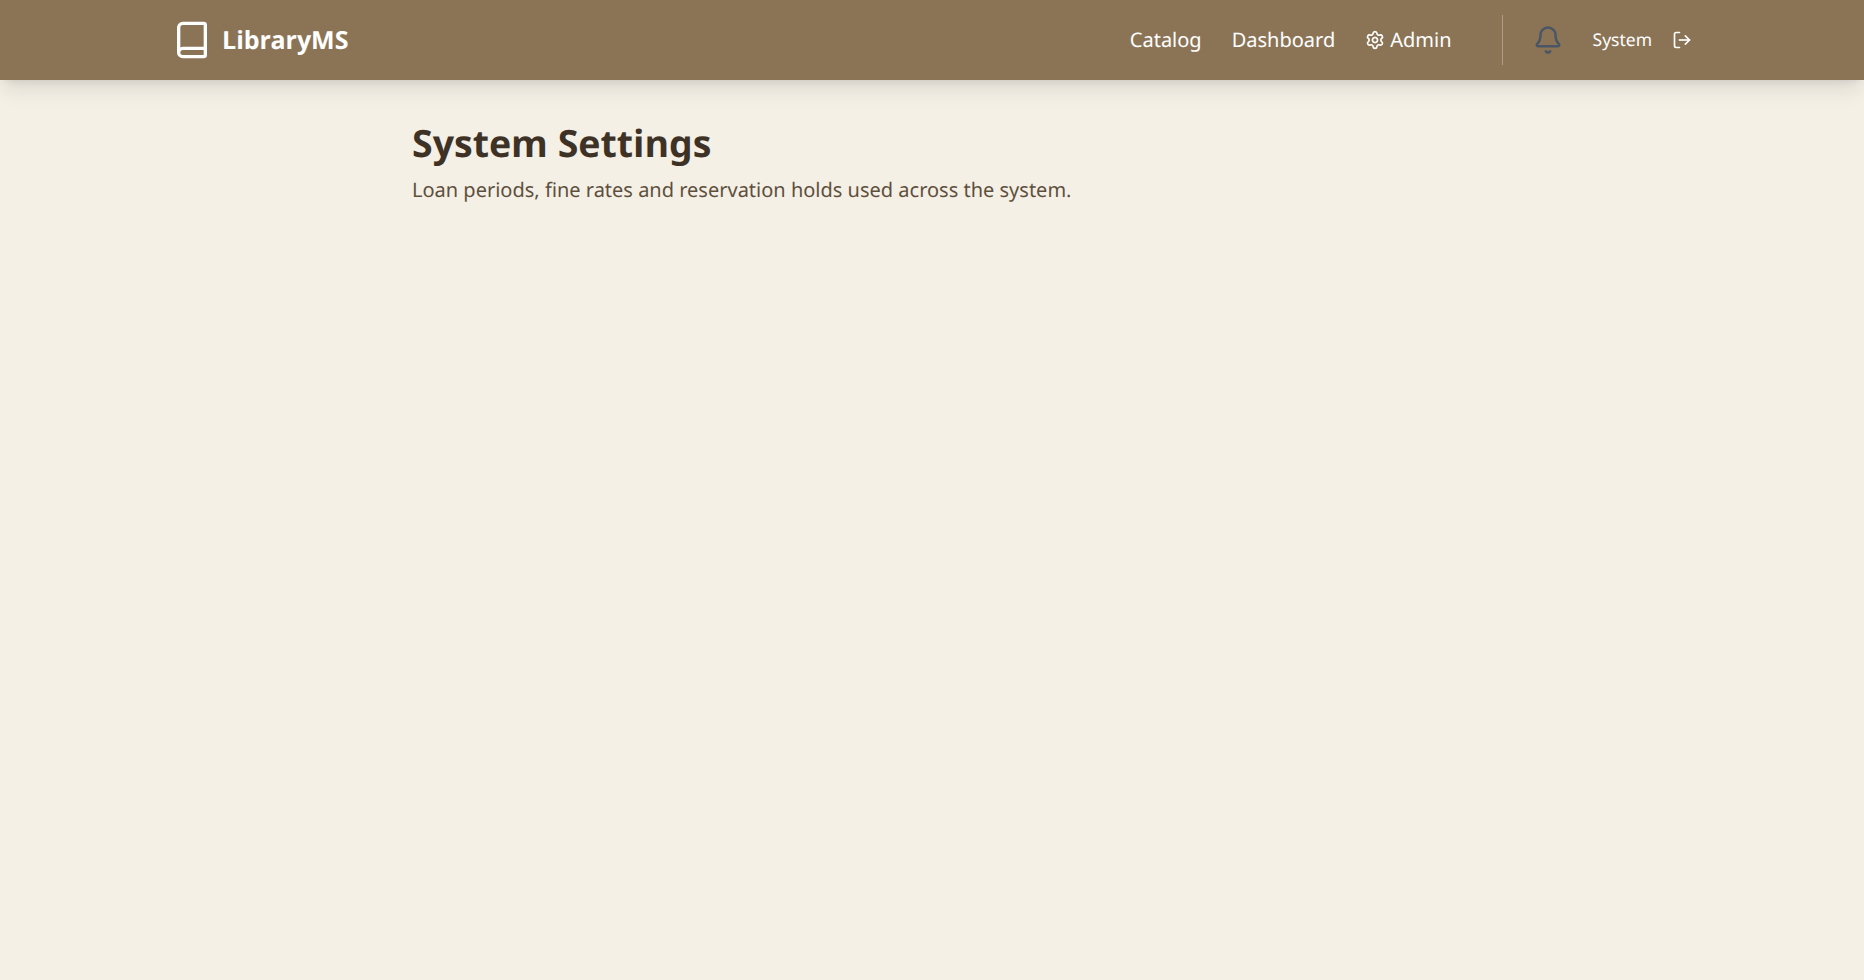
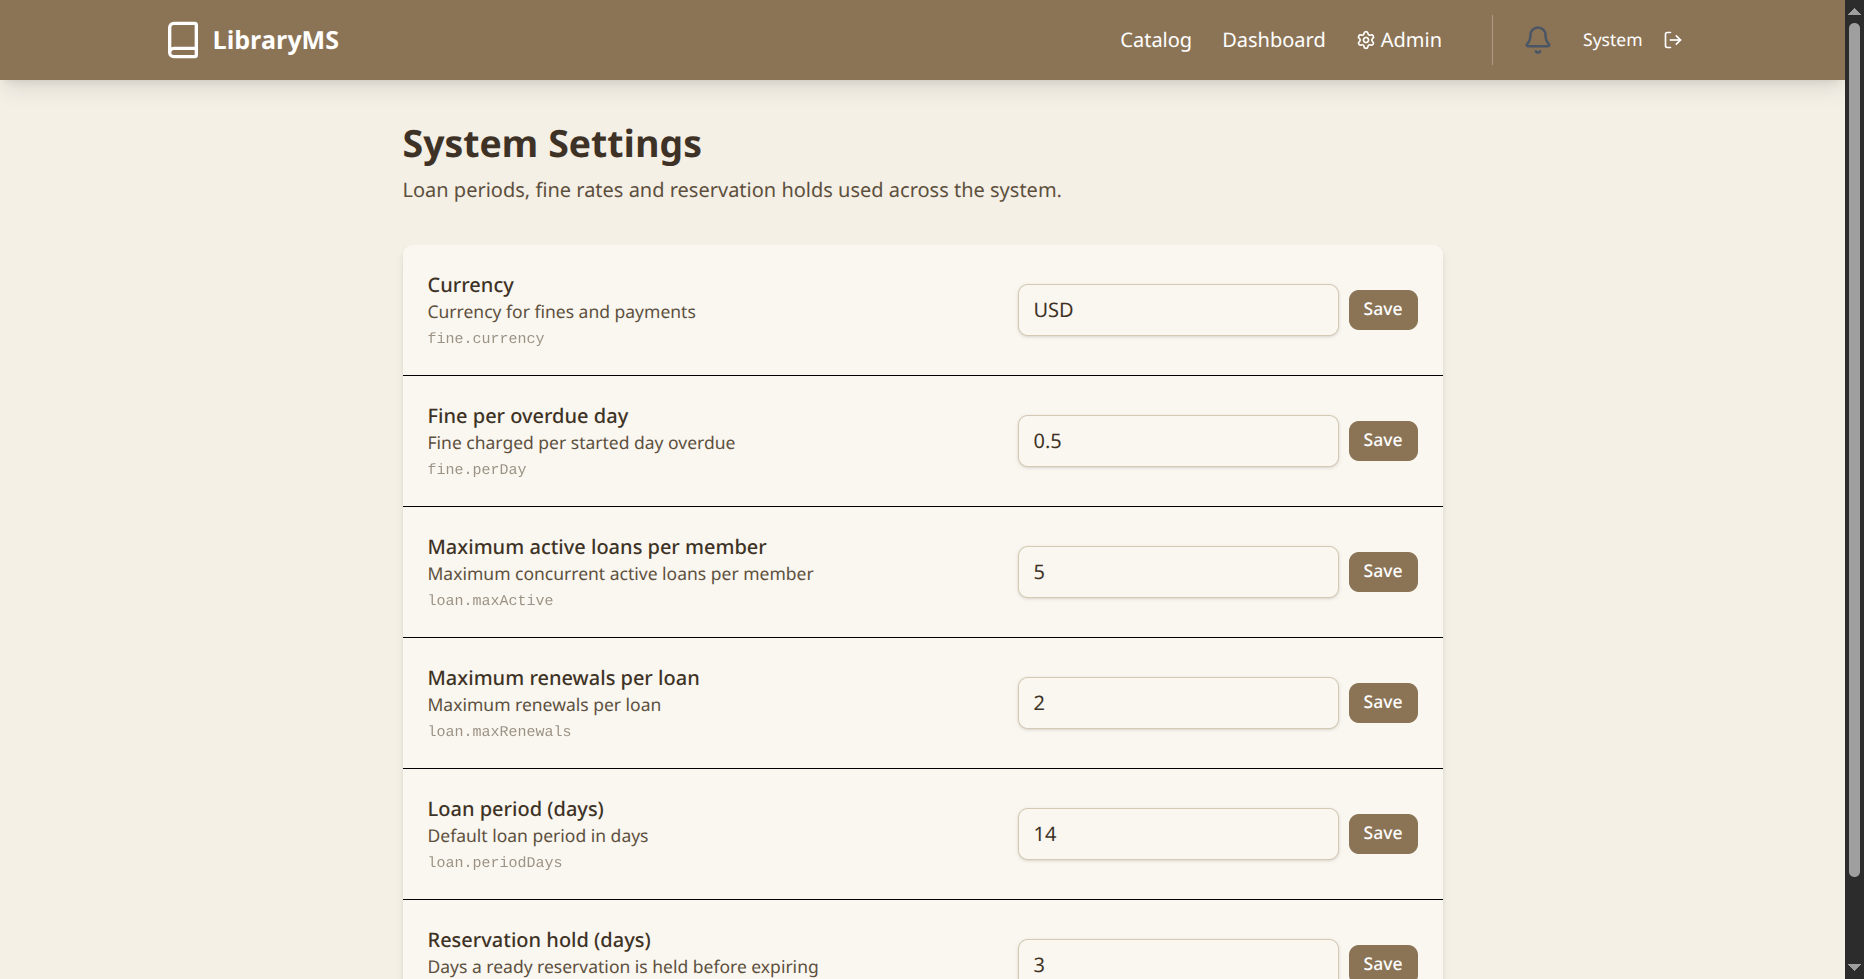
fix(ui): humanize system settings labels and feedback
- Show readable labels (Loan period, Fine per overdue day, ...) with the raw
  key as secondary context instead of only loan.periodDays-style keys
- Numeric settings use number inputs
- Per-row save spinner instead of every row spinning, and save failures are
  surfaced through the API error envelope
- Retake the README settings screenshot now that the seed restores defaults

diff --git a/client/src/pages/admin/Settings.tsx b/client/src/pages/admin/Settings.tsx
@@ -1,22 +1,47 @@
 import { useState } from 'react';
-import { Save } from 'lucide-react';
-import { Button, Input, LoadingSpinner } from '../../components';
+import { Button, Input, LoadingSpinner, Alert } from '../../components';
 import { useSettings, useUpdateSetting } from '../../hooks/useSettings';
 import { Setting } from '../../types';
+import { getApiErrorMessage } from '../../utils';
+
+const SETTING_LABELS: Record<string, string> = {
+  'loan.periodDays': 'Loan period (days)',
+  'loan.maxActive': 'Maximum active loans per member',
+  'loan.maxRenewals': 'Maximum renewals per loan',
+  'fine.perDay': 'Fine per overdue day',
+  'fine.currency': 'Currency',
+  'reservation.holdDays': 'Reservation hold (days)',
+};
+
+/** Human-readable label with the raw key kept as secondary context. */
+function formatSettingLabel(key: string): string {
+  if (SETTING_LABELS[key]) return SETTING_LABELS[key];
+  const last = key.split('.').pop() ?? key;
+  return last
+    .replace(/([A-Z])/g, ' $1')
+    .replace(/^./, (character) => character.toUpperCase());
+}
 
 export default function Settings() {
   const { data: settings, isLoading, error } = useSettings();
   const updateSetting = useUpdateSetting();
   const [draft, setDraft] = useState<Record<string, string>>({});
   const [savedKey, setSavedKey] = useState<string | null>(null);
+  const [saveError, setSaveError] = useState<string | null>(null);
 
   const handleSave = async (setting: Setting) => {
     const value = draft[setting.key] ?? setting.value;
     if (value === undefined) return;
 
-    await updateSetting.mutateAsync({ key: setting.key, value });
-    setSavedKey(setting.key);
-    setTimeout(() => setSavedKey(null), 2000);
+    setSaveError(null);
+
+    try {
+      await updateSetting.mutateAsync({ key: setting.key, value });
+      setSavedKey(setting.key);
+      setTimeout(() => setSavedKey(null), 2000);
+    } catch (err) {
+      setSaveError(getApiErrorMessage(err, `Failed to update ${setting.key}`));
+    }
   };
 
   if (isLoading) {
@@ -55,35 +80,44 @@ export default function Settings() {
         </p>
       </div>
 
+      {saveError && <Alert variant="error" message={saveError} />}
+
       <div className="rounded-lg shadow-md divide-y" style={{ backgroundColor: 'var(--parchment-light)' }}>
         {settings.map((setting) => (
           <div key={setting.id} className="p-5 flex flex-col md:flex-row md:items-center gap-3">
             <div className="flex-1">
               <p className="font-medium" style={{ color: 'var(--ink-primary)' }}>
-                {setting.key}
+                {formatSettingLabel(setting.key)}
               </p>
-              {setting.description && (
+              {setting.description && setting.description !== formatSettingLabel(setting.key) && (
                 <p className="text-sm" style={{ color: 'var(--ink-secondary)' }}>
                   {setting.description}
                 </p>
               )}
+              <p className="text-xs font-mono mt-1 opacity-60" style={{ color: 'var(--ink-secondary)' }}>
+                {setting.key}
+              </p>
             </div>
             <div className="flex items-center gap-2 md:w-80">
               <Input
                 key={`${setting.key}:${setting.value}`}
+                type={setting.type === 'number' ? 'number' : 'text'}
+                step={setting.type === 'number' ? 'any' : undefined}
                 defaultValue={setting.value}
                 onChange={(event) =>
                   setDraft((prev) => ({ ...prev, [setting.key]: event.target.value }))
                 }
-                aria-label={setting.key}
+                aria-label={formatSettingLabel(setting.key)}
               />
               <Button
                 size="sm"
                 onClick={() => handleSave(setting)}
-                isLoading={updateSetting.isPending}
+                isLoading={
+                  updateSetting.isPending && updateSetting.variables?.key === setting.key
+                }
                 aria-label={`Save ${setting.key}`}
               >
-                {savedKey === setting.key ? 'Saved' : <Save className="h-4 w-4" />}
+                {savedKey === setting.key ? 'Saved' : 'Save'}
               </Button>
             </div>
           </div>
